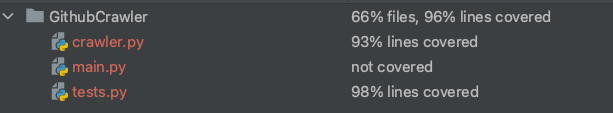
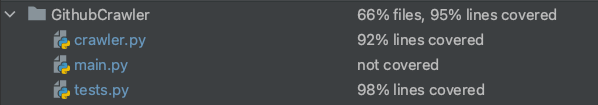
add support for wikis and issues, spent additional 2 hours, general time spent 6 hours

diff --git a/tests.py b/tests.py
@@ -1,7 +1,8 @@
 import unittest
 from unittest.mock import patch
 
-from crawler import request_html, fetch_github_links, fetch_extra_github_information
+from crawler import (request_html, fetch_github_links, fetch_extra_github_information,
+                     extract_link_from_resource, process_wikis_body)
 
 
 GITHUB_REPOSITORY_INFORMATION = b"""<ul class="list-style-none">
@@ -35,6 +36,9 @@ GITHUB_REPOSITORY_INFORMATION = b"""<ul class="list-style-none">
 </ul>"""
 
 GITHUB_REPOSITORY_LIST = b"""<body>{"payload": {"results": [{"id": "55005225", "archived": false, "color": "#563d7c", "followers": 0, "has_funding_file": false, "hl_name": "atuldjadhav/DropBox-Cloud-Storage", "hl_trunc_description": "Technologies:- Openstack NOVA, NEUTRON, SWIFT, CINDER API's, JAVA, JAX-RS, MAVEN, JSON, HTML5, CSS, JAVASCRIPT, ANGULARJS", "language": "CSS", "mirror": false, "owned_by_organization": false, "public": true, "repo": {"repository": {"id": 55005225, "name": "DropBox-Cloud-Storage", "owner_id": 17938694, "owner_login": "atuldjadhav", "updated_at": "2016-03-29T19:40:33.966Z", "has_issues": true}}, "sponsorable": false, "topics": [], "type": "Public", "help_wanted_issues_count": 0, "good_first_issue_issues_count": 0, "starred_by_current_user": false}]}}</body>"""
+
+WIKIS_RESPONSE = """{"payload":{"header_redesign_enabled":false,"results":[{"body":"football data api をローカルでテスト実行したいとき import http.client\nimport json def fetch_api_data():\ntry:\nconnection = http.client.HTTPConnection('api.football-data.org')\nheaders = { 'X-Auth-Token': 'API キー' }\nconnection.request('GET', '/v4/competitions/PL/teams', None, headers)\nresponse = json.loads(connection.getresponse().read().decode())\nreturn response\nexcept Exception as e:\nprint(f\"Error occurred while fetching data from API: {e}\")\nreturn None data = fetch_api_data()\nif data is not None:\nprint(json.dumps(data, indent=4))","filename":"Python(Django).md","format":"markdown","hl_body":"football data api をローカルでテスト実行したいとき import http.client\nimport json def fetch_api_data():\ntry:\nconnection = http.client.HTTPConnection('api.football-data.org')\nheaders = { 'X-Auth-Token': ...","hl_title":"Python(Django)","id":"19a3d5048458b7a2a41158a807746b8d7ca9bfe2","path":"Python(Django).md","public":true,"repo":{"repository":{"id":672209564,"name":"PostMatch","owner_id":132193935,"owner_login":"Kota-Oshiro","updated_at":"2023-10-10T09:28:59.270Z","has_issues":true}},"repo_id":672209564,"title":"Python(Django)","updated_at":"2023-07-30T17:30:30.000+09:00"}"""
+WIKIS_PROCESSED_RESPONSE = """{"payload":{"header_redesign_enabled":false,"results":[{"filename":"Python(Django).md","format":"markdown","hl_title":"Python(Django)","id":"19a3d5048458b7a2a41158a807746b8d7ca9bfe2","path":"Python(Django).md","public":true,"repo":{"repository":{"id":672209564,"name":"PostMatch","owner_id":132193935,"owner_login":"Kota-Oshiro","updated_at":"2023-10-10T09:28:59.270Z","has_issues":true}},"repo_id":672209564,"title":"Python(Django)","updated_at":"2023-07-30T17:30:30.000+09:00"}"""
 
 
 class AsyncSession:
@@ -174,6 +178,52 @@ class TestGitHubScraper(unittest.IsolatedAsyncioTestCase):
             }
         ]
 
+        self.assertEqual(result, expected_result)
+
+    @patch("crawler.GITHUB_LINK", 'https://github.com')
+    async def test_extract_link_from_resource(self):
+        data = {
+            'repo': {
+                'repository': {
+                    'name': 'myrepo',
+                    'owner_login': 'myuser'
+                }
+            },
+            'number': 42,
+            'hl_title': 'MyTitle'
+        }
+
+        result = await extract_link_from_resource('Issues', data)
+
+        expected_result = 'https://github.com/myuser/myrepo/issues/42'
+        self.assertEqual(result, expected_result)
+
+    @patch("crawler.GITHUB_LINK", 'https://github.com')
+    async def test_extract_link_from_resource_no_number(self):
+        data = {
+            'repo': {
+                'repository': {
+                    'name': 'myrepo',
+                    'owner_login': 'myuser'
+                }
+            },
+            'hl_title': 'MyTitle'
+        }
+
+        result = await extract_link_from_resource('Wikis', data)
+
+        expected_result = 'https://github.com/myuser/myrepo/wikis/MyTitle'
+        self.assertEqual(result, expected_result)
+
+    async def test_process_wikis_body_no_matches(self):
+        input_body = "This is a test body with no matches."
+        result = await process_wikis_body(input_body)
+        self.assertEqual(result, input_body)
+
+    async def test_process_wikis_body_single_match(self):
+        input_body = WIKIS_RESPONSE
+        expected_result = WIKIS_PROCESSED_RESPONSE
+        result = await process_wikis_body(input_body)
         self.assertEqual(result, expected_result)
 
 

diff --git a/crawler.py b/crawler.py
@@ -2,6 +2,10 @@ import aiohttp
 import asyncio
 import json
 import random
+
+from typing import List, Optional, Dict, Union
+
+from aiohttp import ClientSession
 from bs4 import BeautifulSoup
 
 GITHUB_LINK = "https://github.com"
@@ -16,21 +20,59 @@ GITHUB_PAGE_URL_PATH = "hl_name"
 ENCODING = "utf-8"
 HTML_PARSER = "html5lib"
 
+WIKIS = "Wikis"
+REPOSITORIES = "Repositories"
 
-async def request_html(session, path, proxies):
+# keys to remove from wikis response body
+WIKIS_BODY = '{"body":'
+WIKIS_FILENAME = '"filename":'
+WIKIS_HL_BODY = '"hl_body":'
+WIKIS_HL_TITLE = '"hl_title":'
+
+
+async def process_wikis_body(body: str) -> str:
+    """We need to process additionally response with Wikis
+       because it has code samples that cannot be cast to json"""
+    body_index = 0
+    while (new_index := body.find(WIKIS_BODY, body_index)) != -1:
+        # removing part with programming code in body
+        filename_index = body.find(WIKIS_FILENAME, body_index)
+        body = body[:new_index] + "{" + body[filename_index:]
+
+        # removing part with programming code in hl_body
+        hl_body_index = body.find(WIKIS_HL_BODY, body_index)
+        hl_title_index = body.find(WIKIS_HL_TITLE, hl_body_index)
+        body = body[:hl_body_index] + body[hl_title_index:]
+
+        body_index = new_index + 2
+
+    return body
+
+
+async def extract_link_from_resource(data_type: str, obj: Dict[str, Union[str, List, Dict]]):
+    repository = obj.get('repo').get('repository')
+    repo_name = repository.get('name')
+    repo_owner = repository.get('owner_login')
+    repo_number = obj.get('number') or obj.get('hl_title')
+
+    return f'{GITHUB_LINK}/{repo_owner}/{repo_name}/{data_type.lower()}/{repo_number}'
+
+
+async def request_html(session: ClientSession, path: str, proxies: List[str]) -> Optional[bytes]:
     proxy = PROXY.format(random.choice(proxies))
-    async with session.get(f"/{path}", proxy=proxy) as response:
+    async with session.get(f"/{path}") as response:
         if response.status == 200:
             return await response.read()
         print(f"Failed to retrieve data. Status code: {response.status}")
         return None
 
 
-async def fetch_github_links(input_info):
+async def fetch_github_links(input_info: Dict[str, Union[str, List[str]]]) -> List[Dict[str, str]]:
     proxies = input_info["proxies"]
 
+    data_type = input_info["type"]
     search_url = SEARCH_PATH.format(keywords='+'.join(input_info["keywords"]),
-                                    resource_type=input_info["type"])
+                                    resource_type=data_type)
 
     timeout = aiohttp.ClientTimeout(total=30)
     try:
@@ -38,16 +80,24 @@ async def fetch_github_links(input_info):
             html = await request_html(session, search_url, proxies)
             soup = BeautifulSoup(html.decode(ENCODING), HTML_PARSER)
             body = soup.find(BODY).text
+            if data_type == WIKIS:
+                body = await process_wikis_body(body)
+
             json_object = json.loads(body)
 
-            tasks = []
-            for obj in json_object.get('payload', {'results': []})['results']:
-                task = asyncio.create_task(
-                    fetch_extra_github_information(session, obj.get(GITHUB_PAGE_URL_PATH), proxies)
-                )
-                tasks.append(task)
-
-            result = await asyncio.gather(*tasks)
+            result = []
+            objects = json_object.get('payload', {}).get('results', [])
+            if data_type == REPOSITORIES:
+                tasks = []
+                for obj in objects:
+                    task = asyncio.create_task(
+                        fetch_extra_github_information(session, obj.get(GITHUB_PAGE_URL_PATH), proxies)
+                    )
+                    tasks.append(task)
+                result.extend(await asyncio.gather(*tasks))
+            else:
+                for obj in objects:
+                    result.append({'url': await extract_link_from_resource(data_type, obj)})
             return result
 
     except Exception as e:
@@ -55,7 +105,7 @@ async def fetch_github_links(input_info):
         return []
 
 
-async def fetch_extra_github_information(session, path, proxies):
+async def fetch_extra_github_information(session: ClientSession, path: str, proxies: List[str]) -> Dict[str, str]:
     html = await request_html(session, path, proxies)
 
     soup = BeautifulSoup(html.decode(ENCODING), HTML_PARSER)
